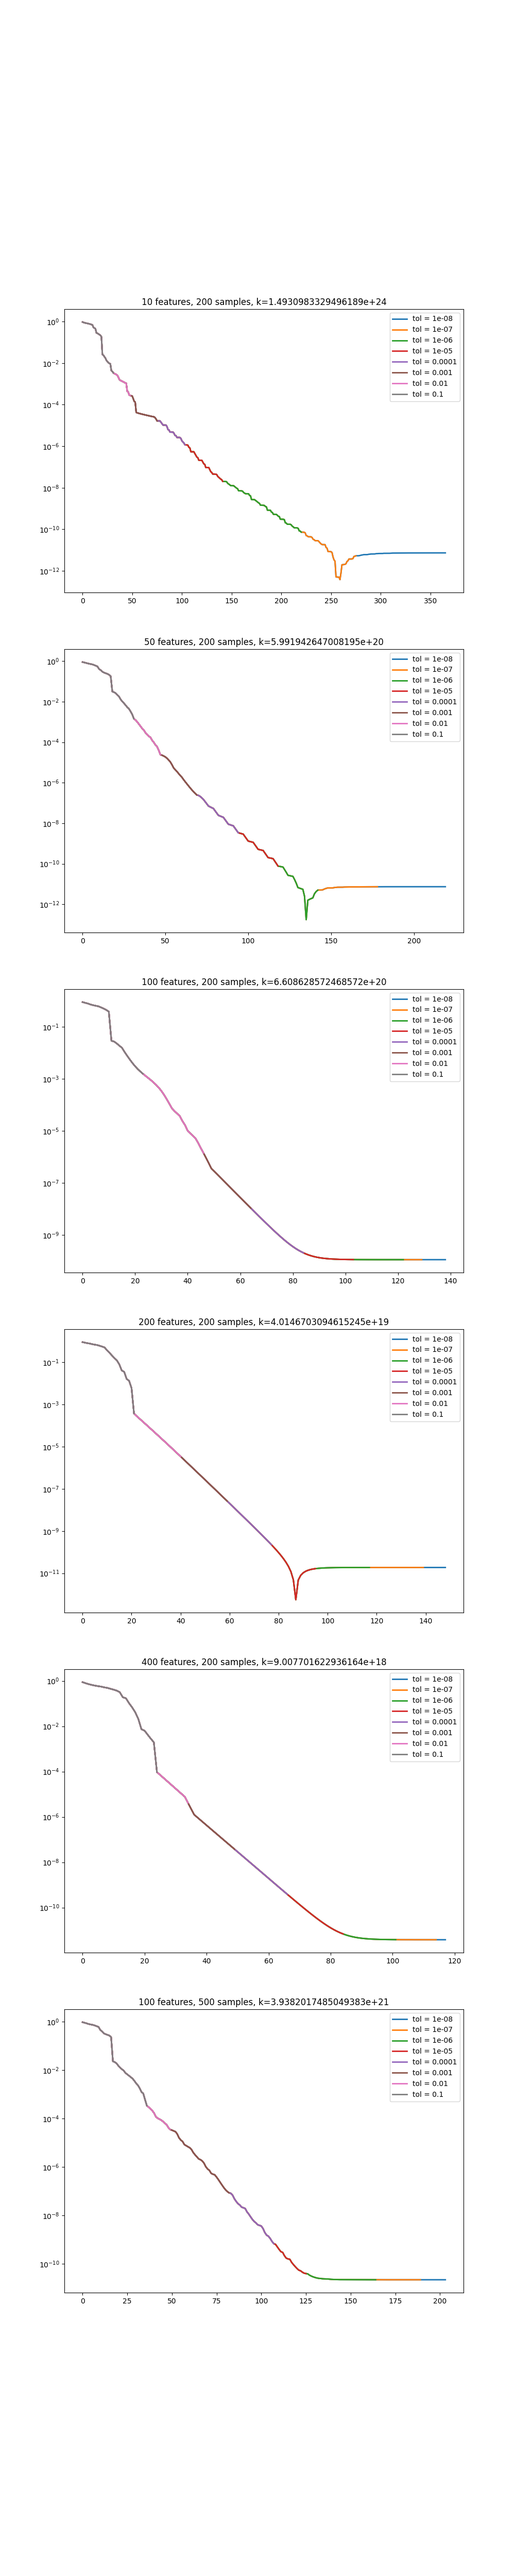
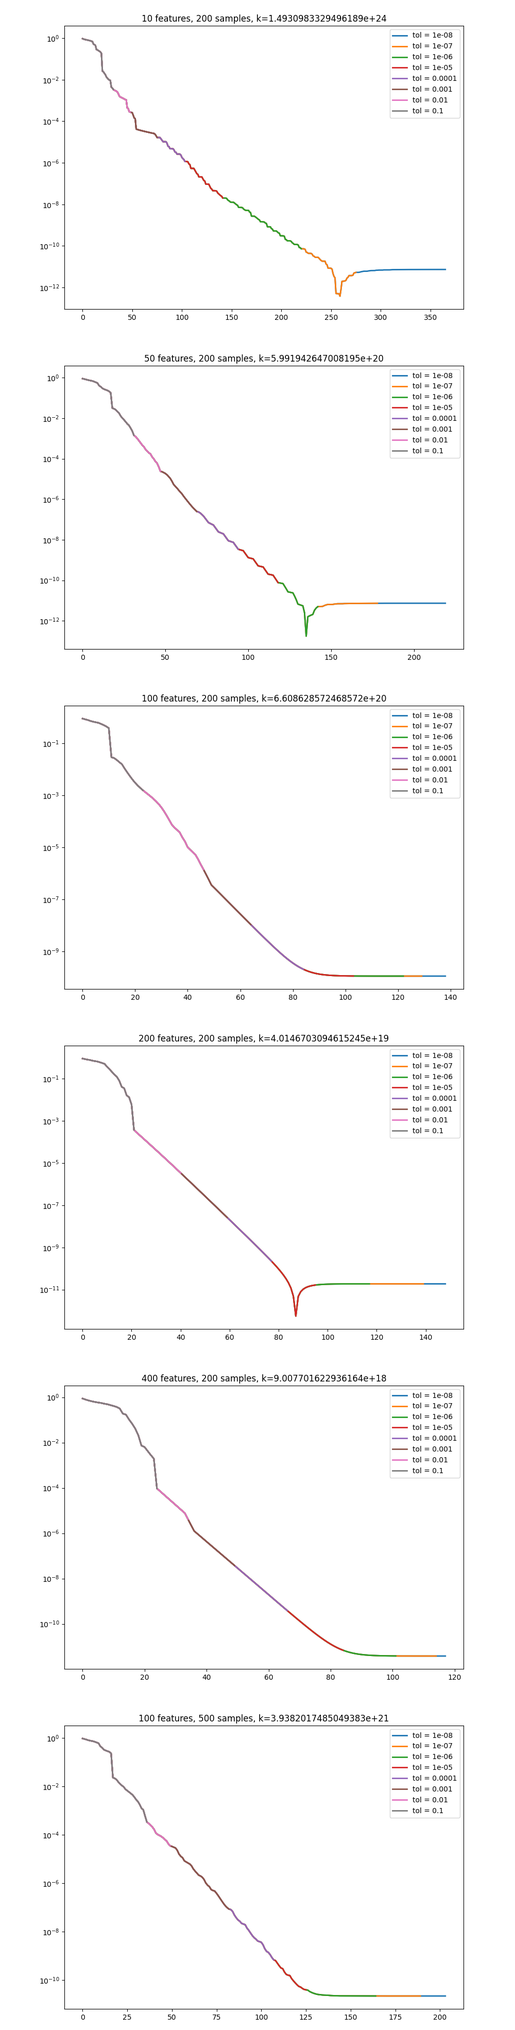
avoid useless d norm recomputations

diff --git a/gvpm.py b/gvpm.py
@@ -71,11 +71,13 @@ class GVPM(Solver):
 
         self.stopping_rule = stopping_rule
 
+        self.checkpoints = False
+
     def _update_rule_1(self, d):
-        return (d.T @ d) / (d.T @ self.Q @ d)
+        return self.d_norm ** 2 / self.dQd
 
     def _update_rule_2(self, d):
-        return (d.T @ self.Q @ d) / (d.T @ self.Q_square @ d)
+        return self.dQd / (d.T @ self.Q_square @ d)
 
     def _select_updating_rule(self, d, a, lam):
         a_new = {1: self._update_rule_1(d), 2: self._update_rule_2(d)}
@@ -103,7 +105,7 @@ class GVPM(Solver):
         k = 0
         if self.fixed_lambda is None:
             if self.ls == self.LineSearches.EXACT:
-                l_new = abs((d.T @ d) / (d.T @ self.Q @ d))
+                l_new = abs(self.d_norm**2 / self.dQd)
             elif self.ls == self.LineSearches.BACKTRACK:
                 l_new, it = backtracking_armijo_ls(self.f, self.df, x, d, alpha_min=self.lam_low)
                 k += it
@@ -191,12 +193,12 @@ class GVPM(Solver):
         elif self.stopping_rule == 'f':
             stop = lambda: k > 2 and (fxs[-1] - fxs[-3]) / fxs[-1] < self.tol
         elif self.stopping_rule == 'd':
-            stop = lambda: ds[-1] < self.tol
+            stop = lambda: self.d_norm < self.tol
 
-
-        tols = [1e-1, 1e-2, 1e-3, 1e-4, 1e-5, 1e-6, 1e-7, 1e-8]
-        tol_index = 0
-        self.tol = tols[tol_index]
+        if self.checkpoints:
+            tols = [1e-1, 1e-2, 1e-3, 1e-4, 1e-5, 1e-6, 1e-7, 1e-8]
+            tol_index = 0
+            self.tol = tols[tol_index]
         while k < self.max_iter:
 
             # print("before\t gradient={}\tx={}\ta={}".format(norm(gradient), norm(x), a))
@@ -204,7 +206,8 @@ class GVPM(Solver):
             start_time_proj = time.time()
 
             d = self._project(x - a * gradient) - x
-
+            self.d_norm = norm(d)
+            self.dQd = d.T @ self.Q @ d
             time_proj += time.time() - start_time_proj
             # print("\t\tElapsed time in projection", time_proj)
             # print("projected d ={}".format(norm(d)))
@@ -227,7 +230,7 @@ class GVPM(Solver):
             rate_norm.append(rate[-1] / xs[-1])
             fxs.append(self.f(x))
             gs.append(norm(gradient))
-            ds.append(norm(d))
+            ds.append(self.d_norm)
             if f_opt is not None:
                 f_gaps.append(abs((fxs[-1] - f_opt) / f_opt))
                 # if k > 0:
@@ -253,17 +256,21 @@ class GVPM(Solver):
             # Stopping criterions
 
             if stop():
-                self.checkpoints[self.tol] = {'it': k, 'gap':f_gaps[-1]}
-                tol_index += 1
-                if tol_index > len(tols) -1 :
+                if self.checkpoints:
+                    self.checkpoints[self.tol] = {'it': k, 'gap':f_gaps[-1]}
+                    tol_index += 1
+                    if tol_index > len(tols) -1 :
+                        print("Optimal solution found")
+                        break
+                    self.tol = tols[tol_index]
+                else:
                     print("Optimal solution found")
                     break
-                self.tol = tols[tol_index]
 
 
             # Update stepsize
             if self.fixed_alpha is None:
-                if d.T @ self.Q @ d <= 0:
+                if self.dQd <= 0:
                     if self.verbose:
                         print("amax")
 

diff --git a/experiments/n_min_comparison.py b/experiments/n_min_comparison.py
@@ -17,9 +17,9 @@ from gvpm import GVPM
 feature_samples_dict = [
                         {'features': 10, 'samples': 200},
                         {'features': 100, 'samples': 50},
-                        {'features': 50, 'samples': 200},
-                        # {'features': 100, 'samples': 200},
-                        # {'features': 100, 'samples': 500},
+                        # {'features': 50, 'samples': 200},
+                        {'features': 100, 'samples': 200},
+                        {'features': 100, 'samples': 500},
                         # {'features': 100, 'samples': 1000},
                         # {'features': 300, 'samples': 1000},
                         # {'features': 500, 'samples': 2000},
@@ -31,10 +31,10 @@ n_mins = [0,1,3,8,15]
 
 histories = []
 table = []
-plt.rcParams["figure.figsize"] = (20, 20)
+plt.rcParams["figure.figsize"] = (15, 15)
 # plt.title("n_min Variation")
-cols = 3
-fig, axs = plt.subplots(2,cols)
+cols = 2
+fig, axs = plt.subplots(2,2)
 plt.yscale('log')
 
 n_problems = 1
@@ -45,8 +45,8 @@ for i, d in enumerate(feature_samples_dict):
     kernel = 'rbf'
     eps = 0.1
     gamma = 'scale'
-    tol = 1e-5
-    ls = GVPM.LineSearches.EXACT
+    tol = 1e-3
+    ls = GVPM.LineSearches.BACKTRACK
 
     row = {'features': d['features'], 'samples': d['samples']}
     histories = {}
@@ -54,14 +54,14 @@ for i, d in enumerate(feature_samples_dict):
     plot = axs[int(i / cols), i % cols]
 
     for t, n_min in enumerate(n_mins):
-        solver = GVPM(ls=ls, n_min=n_min, tol=tol, lam_low=1e-3, plots=False, proj_tol=1e-3)
+        solver = GVPM(ls=ls, n_min=n_min, tol=tol, lam_low=1e-3, plots=False, proj_tol=1e-3, stopping_rule=GVPM.StoppingRules.gradient)
         stats = []
 
         for p in all_problems[i]:
             X, y = p
 
             model = SVR(solver=solver, C=C, kernel=kernel, eps=eps, gamma=gamma,
-                        exact_solver=CplexSolver(tol=tol, verbose=False))
+                        exact_solver=CplexSolver(tol=1e-10, verbose=False))
             n_sv, alphas, indices = model.train(X, y)
             stats.append(solver.stats)
 
@@ -85,8 +85,8 @@ for i, d in enumerate(feature_samples_dict):
 
     table.append(row)
 
-plt.show()
-# plt.savefig(out_dir + "n_min_f_gap_large_problems.png")
-# with open(out_dir + "table_large_problems.txt", "w", encoding="utf-8") as out_file:
-#     out_file.write(tabulate([r.values() for r in table], table[0].keys(), tablefmt='latex'))
+# plt.show()
+plt.savefig(out_dir + "n_min_f_gap_stop_d.png")
+with open(out_dir + "n_min_table_stop_d.txt", "w", encoding="utf-8") as out_file:
+    out_file.write(tabulate([r.values() for r in table], table[0].keys(), tablefmt='latex'))
 

diff --git a/experiments/tolearance.py b/experiments/tolearance.py
@@ -33,8 +33,6 @@ out_dir = "./plots/tolerance/"
 # os.mkdir("./plots/n_min/")
 tols = [1e-1, 1e-2, 1e-3, 1e-4, 1e-5, 1e-6, 1e-7, 1e-8]
 
-
-
 n_problems = 20
 all_problems = generate_regression_from_feature_sample_dict(feature_samples_dict, n_problems, fixed_rs=42)
 tols.reverse()
@@ -66,12 +64,12 @@ for stopping_rule in GVPM.StoppingRules.values:
         it = {}
         f_gap = {}
 
-
+        for tol in tols:
+            it[i, tol] = 0
+            f_gap[i, tol] = 0
 
         for p in all_problems[i]:
-            for tol in tols:
-                it[i, tol] = 0
-                f_gap[i, tol] = 0
+
             solver = GVPM(ls=ls, n_min=2, tol=1e-8, lam_low=1e-3,
                           plots=False, proj_tol=1e-8, max_iter=2000, stopping_rule=stopping_rule)
             stats = []
@@ -82,7 +80,7 @@ for stopping_rule in GVPM.StoppingRules.values:
                         exact_solver=CplexSolver(tol=1e-10, verbose=False))
             n_sv, alphas, indices = model.train(X, y)
             stats.append(solver.stats)
-            k+= solver.cond
+            k += solver.cond
 
 
             for tol in tols.__reversed__():
@@ -90,11 +88,11 @@ for stopping_rule in GVPM.StoppingRules.values:
                 it[i, tol] += iterates
                 f_gap[i, tol] += final_gap
 
-        row["cond"] = k /n_problems
+        row["cond"] = k / n_problems
 
         for t, tol in enumerate(tols):
-            k, final_gap = solver.checkpoints[tol].values()
-            plot.plot(np.arange(k), solver.f_gap_history[:k], label='tol = {}'.format(tol),linewidth=2)
+            iterates, final_gap = solver.checkpoints[tol].values()
+            plot.plot(np.arange(iterates), solver.f_gap_history[:iterates], label='tol = {}'.format(tol), linewidth=2)
             row["{} it".format(tol)] = it[i, tol] / n_problems
             row["{} f_gap".format(tol)] = f_gap[i, tol] / n_problems
         plot.set_title("{} features, {} samples, k={}".format(d['features'], d['samples'], solver.cond))

diff --git a/use_svr.py b/use_svr.py
@@ -27,7 +27,7 @@ eps = 0.1
 gamma = 'scale'
 tol = 1e-4
 
-ls = GVPM.LS_BACKTRACK
+ls = GVPM.LineSearches.BACKTRACK
 
 solver = GVPM(ls=ls, n_min=2, tol=tol, lam_low=1e-3, plots=False, proj_tol=1e-3)
 model = SVR(solver = solver,
